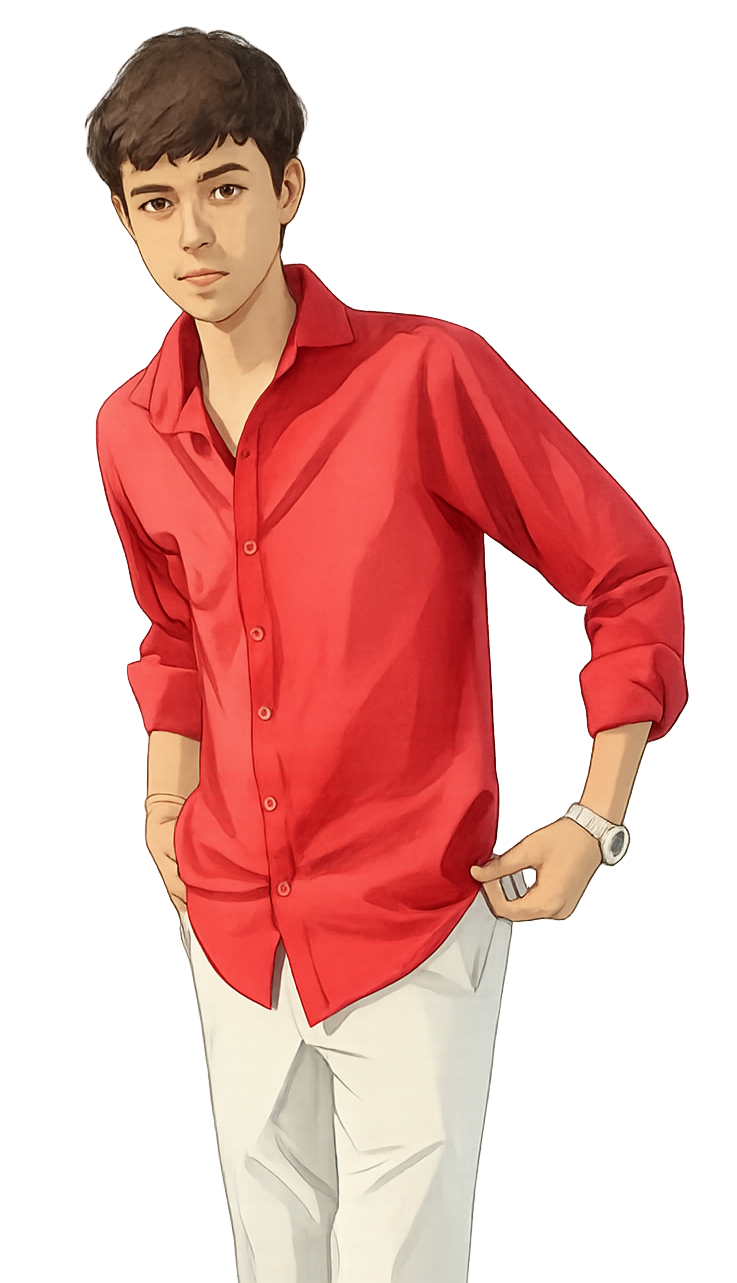
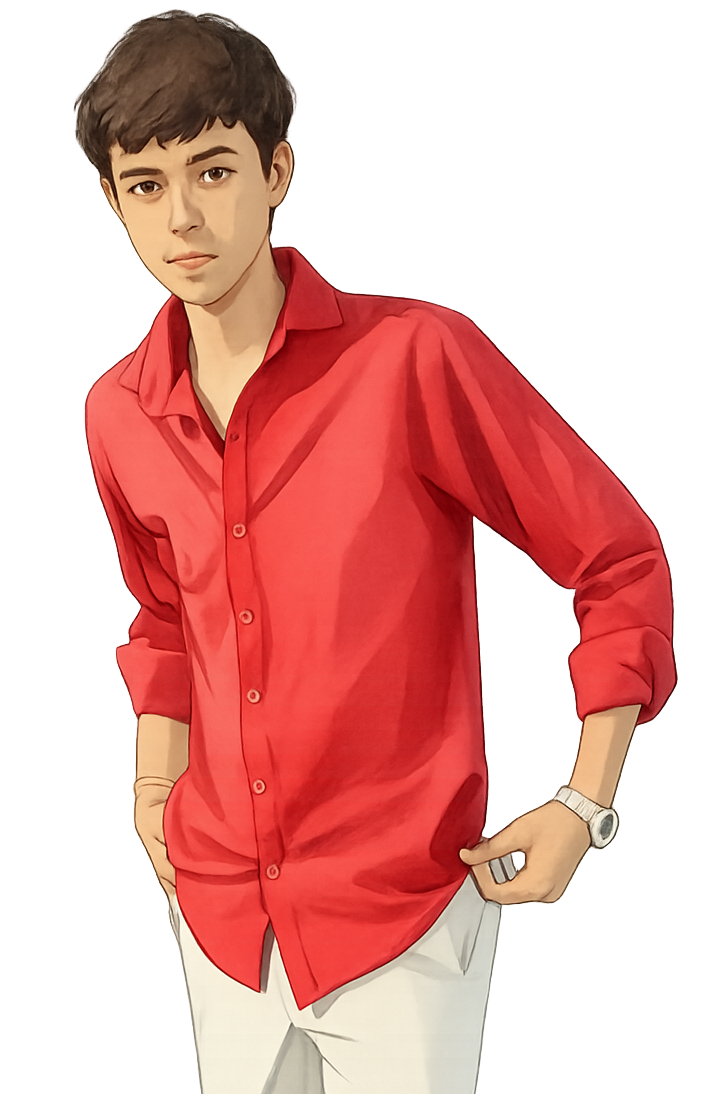
Initial commit - full portfolio

diff --git a/src/components/upper.jsx b/src/components/upper.jsx
@@ -29,7 +29,17 @@ function Upper() {
     });
   }, []);
 
-  /* ================= MAIN ANIMATION ================= */
+  /* ================= GYRO PERMISSION (iOS) ================= */
+  const requestGyroPermission = () => {
+    if (
+      typeof DeviceOrientationEvent !== "undefined" &&
+      typeof DeviceOrientationEvent.requestPermission === "function"
+    ) {
+      DeviceOrientationEvent.requestPermission().catch(() => {});
+    }
+  };
+
+  /* ================= MAIN ANIMATION + PARALLAX ================= */
   useGSAP(
     () => {
       if (!showContent) return;
@@ -64,22 +74,19 @@ function Upper() {
         ease: "power3.out",
       });
 
-      // soft shadow fade-up
       gsap.fromTo(
         ".bottom-shadow",
         { opacity: 0 },
-        {
-          opacity: 1,
-          duration: 1.5,
-          delay: 0.6,
-          ease: "power2.out",
-        },
+        { opacity: 1, duration: 1.5, delay: 0.6 }
       );
 
-      /* ===== Parallax (desktop only) ===== */
-      if (window.innerWidth > 768) {
+      const isMobile = window.innerWidth <= 768;
+
+      /* ===== DESKTOP MOUSE PARALLAX ===== */
+      if (!isMobile) {
         const move = (e) => {
           const x = (e.clientX / window.innerWidth - 0.5) * 40;
+
           gsap.to(".sky", { x: x * 0.6, duration: 0.4 });
           gsap.to(".bg", { x: x, duration: 0.4 });
           gsap.to(".hero-text", { x: x * 0.3, duration: 0.4 });
@@ -88,12 +95,48 @@ function Upper() {
         window.addEventListener("mousemove", move);
         return () => window.removeEventListener("mousemove", move);
       }
+
+      /* ===== MOBILE GYROSCOPE PARALLAX ===== */
+      if (isMobile && window.DeviceOrientationEvent) {
+        const handleOrientation = (e) => {
+          const x = gsap.utils.clamp(-30, 30, e.gamma || 0);
+          const y = gsap.utils.clamp(-30, 30, e.beta || 0);
+
+          gsap.to(".sky", {
+            x: x * 0.3,
+            y: y * 0.2,
+            duration: 0.6,
+            ease: "power2.out",
+          });
+
+          gsap.to(".bg", {
+            x: x * 0.6,
+            y: y * 0.4,
+            duration: 0.6,
+            ease: "power2.out",
+          });
+
+          gsap.to(".hero-text", {
+            x: x * 0.2,
+            duration: 0.6,
+            ease: "power2.out",
+          });
+        };
+
+        window.addEventListener("deviceorientation", handleOrientation);
+        return () =>
+          window.removeEventListener("deviceorientation", handleOrientation);
+      }
     },
-    { dependencies: [showContent], scope: containerRef },
+    { dependencies: [showContent], scope: containerRef }
   );
 
   return (
-    <div ref={containerRef} className="min-h-[1vh] w-full overflow-x-hidden bg-black">
+    <div
+      ref={containerRef}
+      onClick={requestGyroPermission}
+      className="min-h-[1vh] w-full overflow-x-hidden bg-black"
+    >
       {/* ================= SVG INTRO ================= */}
       <div className="svg fixed inset-0 z-[100] flex items-center justify-center bg-black">
         <svg viewBox="0 0 800 600" className="w-full h-full">
@@ -140,6 +183,7 @@ function Upper() {
                 portfolio
               </h3>
             </nav>
+
             {/* BACKGROUNDS */}
             <img
               src="/sky.png"
@@ -148,9 +192,10 @@ function Upper() {
             />
             <img
               src="/bg.png"
-              className="bg absolute inset-0 w-full h-full object-cover scale-[1.4] sm:-center"
+              className="bg absolute inset-0 w-full h-full object-cover scale-[1.4]"
               alt=""
             />
+
             {/* TEXT */}
             <div className="hero-text absolute top-[10%] left-1/2 -translate-x-1/2 text-center text-white opacity-0 translate-y-10">
               <h1 className="text-[3rem] sm:text-[5rem] md:text-[6rem] leading-none">
@@ -163,19 +208,21 @@ function Upper() {
                 priyanshi
               </h1>
             </div>
+
             {/* CHARACTER */}
             <img
               src="/girlbg.png"
               className="character absolute left-1/6 -translate-x-1/2 -bottom-[60%] sm:-bottom-[35%] scale-[1.8] sm:scale-[2.4]"
               alt=""
             />
-            {/* ===== BOTTOM SHADOW ===== */}
+
+            {/* BOTTOM SHADOW */}
             <div className="bottom-shadow pointer-events-none absolute bottom-0 left-0 w-full h-[20%] bg-gradient-to-t from-black via-black/70 to-transparent opacity-0"></div>
-            {/* SCROLL */}{" "}
+
+            {/* SCROLL */}
             <div className="absolute bottom-6 left-1/2 -translate-x-1/2 text-white flex items-center gap-2 opacity-80">
-              {" "}
-              <i className="ri-arrow-down-line text-2xl"></i>{" "}
-              <span>Scroll Down</span>{" "}
+              <i className="ri-arrow-down-line text-2xl"></i>
+              <span>Scroll Down</span>
             </div>
           </section>
         </div>

diff --git a/src/components/Slider.css b/src/components/Slider.css
@@ -1,0 +1,124 @@
+/* ================================
+   PROJECTS SLIDER SECTION
+================================ */
+.projects-slider {
+  position: relative; /* 🔥 shadow ke liye important */
+  width: 100%;
+  padding: 4rem 0;
+  background: #564747;
+  overflow: hidden;
+}
+
+/* ================================
+   TOP SHADOW GRADIENT
+================================ */
+.topsdw {
+  pointer-events: none;
+  position: absolute;
+  top: 0;
+  left: 0;
+  width: 100%;
+  height: 20%;
+  background: linear-gradient(
+    to bottom,
+    rgba(0, 0, 0, 1),
+    rgba(0, 0, 0, 0.7),
+    rgba(0, 0, 0, 0)
+  );
+  opacity: 1;
+  z-index: 5;
+}
+
+/* ================================
+   HEADING
+================================ */
+.projects-slider h2 {
+  text-align: center;
+  font-size: clamp(3rem, 4vw, 4rem);
+  color: #dcbdbd;
+  margin-bottom: 3rem;
+  letter-spacing: 2px;
+  position: relative;
+  z-index: 6;
+}
+
+/* ================================
+   SLIDER ROW
+================================ */
+.slider-row {
+  width: 100%;
+  overflow: hidden;
+  margin: 1.5rem 0;
+}
+
+/* ================================
+   SLIDER TRACK (ANIMATION)
+================================ */
+.slider-track {
+  display: flex;
+  width: fit-content;
+  animation: scroll linear infinite;
+}
+
+.slider-track.reverse {
+  animation-direction: reverse;
+}
+
+/* ================================
+   SLIDE ITEM
+================================ */
+.slide {
+  flex: 0 0 auto;
+  width: clamp(220px, 25vw, 420px);
+  margin-right: 1.5rem;
+  border-radius: 16px;
+  overflow: hidden;
+}
+
+.slide img {
+  width: 100%;
+  height: 100%;
+  object-fit: cover;
+  filter: grayscale(20%);
+  transition: transform 0.6s ease, filter 0.6s ease;
+}
+
+.slide img:hover {
+  transform: scale(1.08);
+  filter: grayscale(0%);
+}
+
+/* ================================
+   INFINITE SCROLL ANIMATION
+================================ */
+@keyframes scroll {
+  from {
+    transform: translateX(0);
+  }
+  to {
+    transform: translateX(-50%);
+  }
+}
+
+/* ================================
+   RESPONSIVE
+================================ */
+@media (max-width: 768px) {
+  .projects-slider {
+    padding: 3rem 0;
+  }
+
+  .projects-slider h2 {
+    margin-bottom: 2rem;
+    font-size: clamp(2rem, 6vw, 3rem);
+  }
+
+  .slider-row {
+    margin: 1rem 0;
+  }
+
+  .slide {
+    width: clamp(180px, 70vw, 260px);
+    margin-right: 1rem;
+  }
+}

diff --git a/src/components/slider.jsx b/src/components/slider.jsx
@@ -1,0 +1,57 @@
+import React from "react";
+import "./Slider.css";
+
+const row1Images = [
+  "1.jpg",
+  "2.jpg",
+  "3.jpg",
+  "4.jpg",
+];
+
+const row2Images = [
+  "1.jpg",
+  "2.jpg",
+  "3.jpg",
+  "4.jpg",
+];
+
+const row3Images = [
+  "1.jpg",
+  "2.jpg",
+  "3.jpg",
+  "4.jpg",
+];
+
+/* 🔹 Reusable Row Component */
+function SliderRow({ images, reverse = false, speed = 25 }) {
+  return (
+    <div className="slider-row">
+      <div
+        className={`slider-track ${reverse ? "reverse" : ""}`}
+        style={{ animationDuration: `${speed}s` }}
+      >
+        {[...images, ...images].map((img, index) => (
+          <div className="slide" key={index}>
+            <img src={img} alt="project" />
+          </div>
+        ))}
+      </div>
+    </div>
+  );
+}
+
+const Slider = () => {
+  return (
+    <section className="projects-slider">
+        <div className="topsdw"></div>
+      <h2>Our Projects</h2>
+
+      {/* 3 Different Rows */}
+      <SliderRow images={row1Images} speed={25} />
+      <SliderRow images={row2Images} reverse speed={30} />
+      <SliderRow images={row3Images} speed={35} />
+    </section>
+  );
+};
+
+export default Slider;

diff --git a/src/components/about.css b/src/components/about.css
@@ -40,14 +40,14 @@
   display: flex;
   flex-direction: column;
   align-items: center;
-  gap: 2.5rem;
+  gap: 1.5rem;
 }
 
 /* Image */
 .about-img img {
   width: 100%;
   max-width: 480px;
-  height: auto;
+  height: 400px;
   object-fit: cover;
 }
 
@@ -115,7 +115,7 @@
   .about-content {
     flex-direction: row;
     align-items: center;
-    gap: 4rem;
+    gap: 3rem;
   }
 
   .about-img img {
@@ -172,8 +172,8 @@
     gap: 6rem;
   }
 
-  .about-img img {
-    max-width: 380px;
+  .about-img  { 
+    max-width: 280px;
   }
 
   .about-text p {

diff --git a/src/App.jsx b/src/App.jsx
@@ -2,13 +2,14 @@ import React from "react";
 import "remixicon/fonts/remixicon.css";
 import Upper from "./components/upper";
 import About from "./components/about";
-
+import Slider from "./components/slider";
 
 function App() {
   return (
     <div>
     <Upper />
     <About />
+    <Slider/>
     </div>
   );
 }
